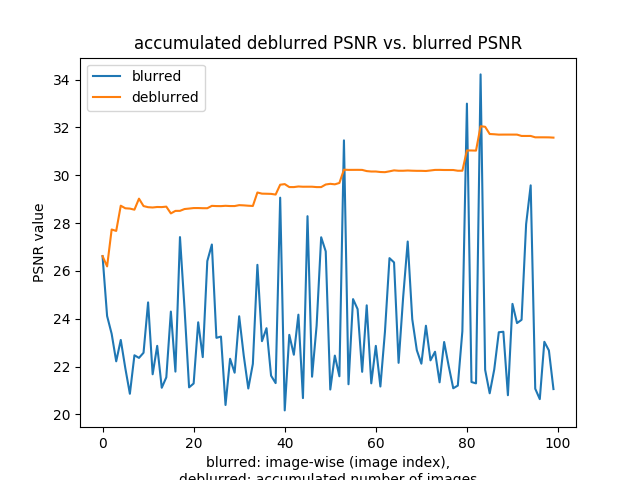
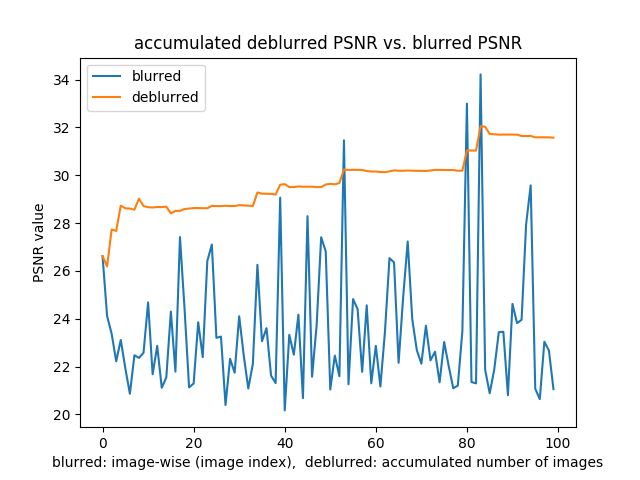
fixed some cuts in the image (matplotlib bug...)

Changed region(s): [[0.0625, 0.9375, 0.9375, 1.0]]

diff --git a/HW1/visualization.py b/HW1/visualization.py
@@ -56,7 +56,7 @@ def visualize_psnrs(original_image, blurred_images, deblurred_images, show=False
     plt.plot(deblurred_psnrs, label="deblurred")
     plt.legend()
     plt.title("accumulated deblurred PSNR vs. blurred PSNR")
-    plt.xlabel("blurred: image-wise (image index),\ndeblurred: accumulated number of images")
+    plt.xlabel("blurred: image-wise (image index),  deblurred: accumulated number of images")
     plt.ylabel("PSNR value")
     plt.savefig(os.path.join('plots', 'psnr_comparison'))
     if show:
